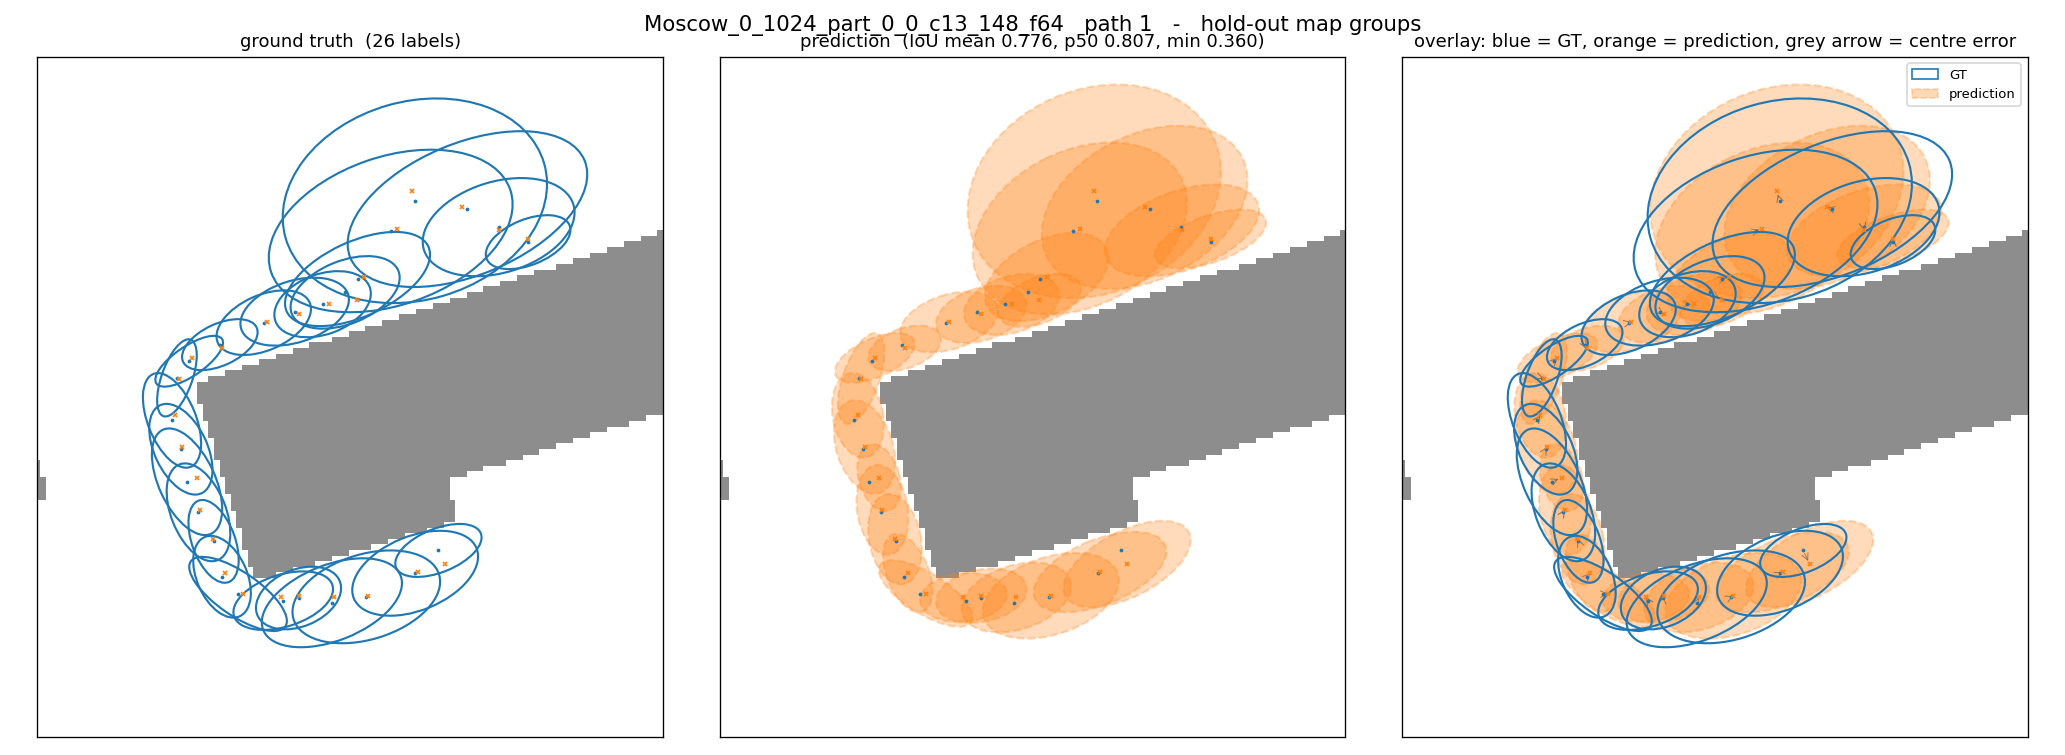
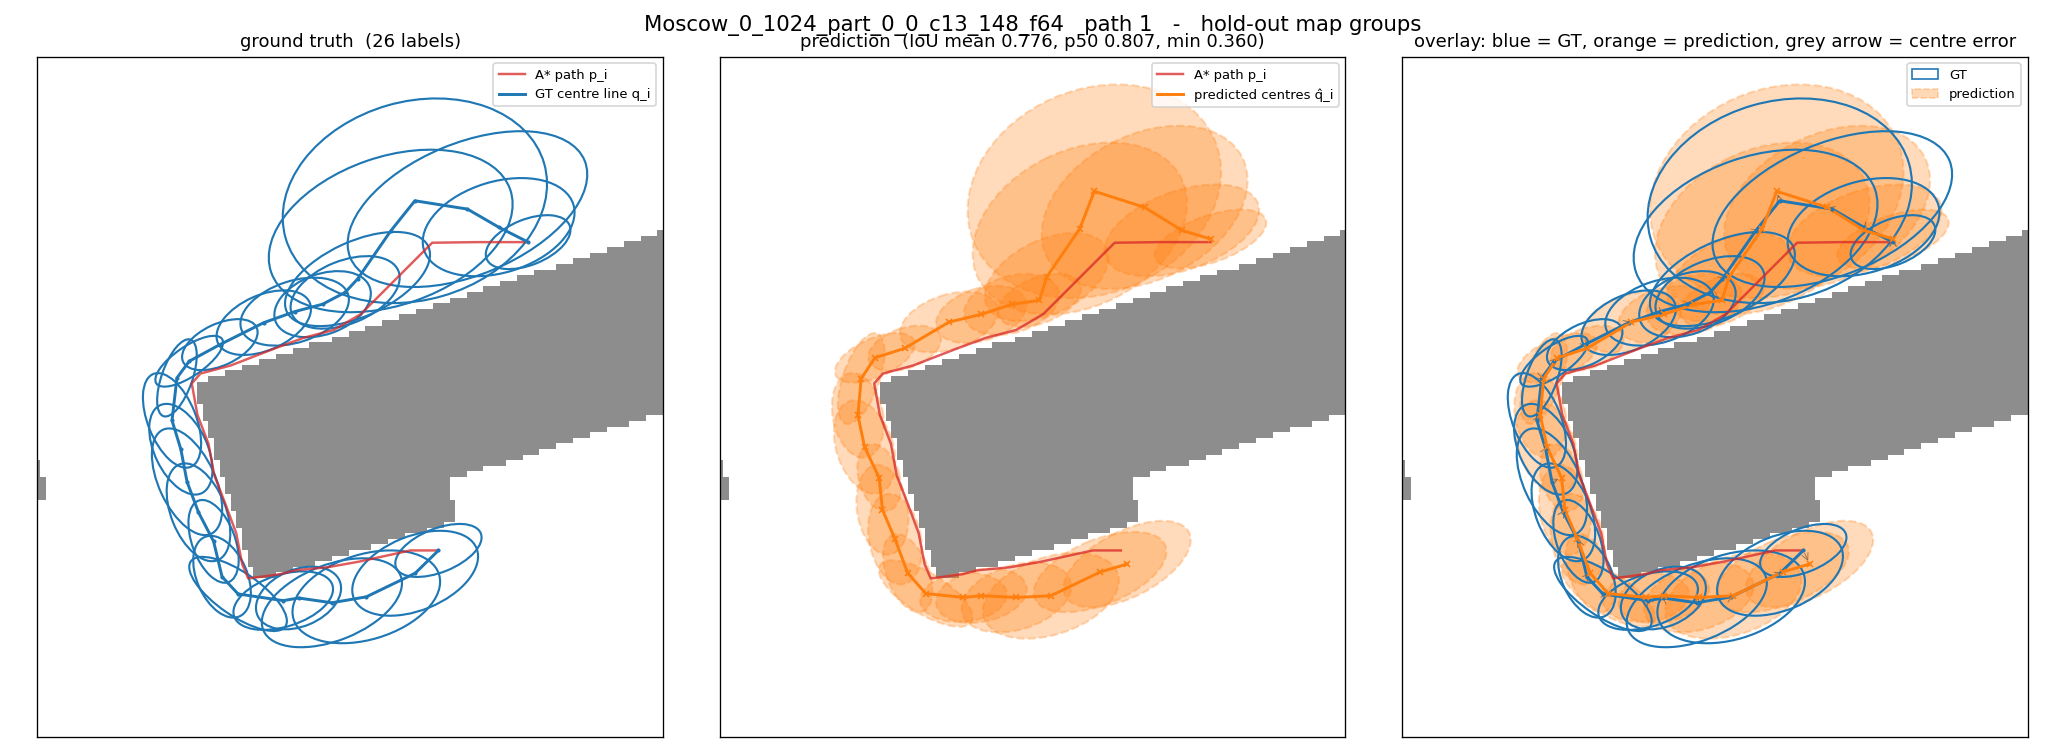
Connect the path in prediction figures: A* path, GT centre line and predicted centres drawn as polylines
The per-trajectory figures showed only loose ellipse outlines, so the sequence was
unreadable.  Each panel now draws the stations as a connected line: red = A* path
p_i, blue = GT centre line q_i (GT panel), orange = predicted centres q̂_i
(prediction panel), both lines in the overlay panel, with legends.  Failure modes
are now visible directly, e.g. Berlin_1_512 path 0 (48 labels, IoU 0.639): the
predicted centre line follows the A* path instead of moving into the open corridor,
and the predicted ellipses are systematically larger, so they spill over the walls.

diff --git a/scripts/v2_1_predict_vis.py b/scripts/v2_1_predict_vis.py
@@ -79,7 +79,7 @@ def draw_path(ax, npz, rows, local, off_p, ab_p, ang_p, off_g, ab_g, ang_g, mode
     n = npz["blocked"].shape[0]
     ax.imshow(npz["blocked"], cmap="gray_r", alpha=0.45, interpolation="nearest",
               extent=[0, n * rs, n * rs, 0])
-    pts_g, pts_p = [], []
+    pts_g, pts_p, pts_a = [], [], []
     for g in rows:
         i = local[g]
         sel = (npz["path_id"] == path_ids[g]) & (npz["point_id"] == point_ids[g])
@@ -91,6 +91,7 @@ def draw_path(ax, npz, rows, local, off_p, ab_p, ang_p, off_g, ab_g, ang_g, mode
         cp = p_xy + off_p[i]
         pts_g.append(cg)
         pts_p.append(cp)
+        pts_a.append(p_xy)
         if mode in ("gt", "both"):
             ax.add_patch(Ellipse((cg[0], cg[1]), 2 * ab_g[i, 0], 2 * ab_g[i, 1],
                                  angle=math.degrees(ang_g[i]), fill=False,
@@ -104,12 +105,23 @@ def draw_path(ax, npz, rows, local, off_p, ab_p, ang_p, off_g, ab_g, ang_g, mode
         if mode == "both":
             ax.annotate("", xy=(cp[0], cp[1]), xytext=(cg[0], cg[1]),
                         arrowprops=dict(arrowstyle="->", color="0.35", lw=0.6, alpha=0.8))
-    if pts_g:
-        ax.plot(*np.asarray(pts_g).T, ".", ms=2.6, color="tab:blue", zorder=5)
-    if pts_p:
-        ax.plot(*np.asarray(pts_p).T, "x", ms=2.6, color="tab:orange", zorder=5)
+    # connect the stations: the whole point is to see the trajectory, not loose rings
+    if pts_a:
+        a = np.asarray(pts_a)
+        ax.plot(a[:, 0], a[:, 1], "-", color="tab:red", lw=1.5, alpha=0.75, zorder=6,
+                label="A* path p_i")
+    if pts_g and mode in ("gt", "both"):
+        c = np.asarray(pts_g)
+        ax.plot(c[:, 0], c[:, 1], "-", color="tab:blue", lw=1.8, zorder=7,
+                label="GT centre line q_i")
+        ax.plot(c[:, 0], c[:, 1], ".", ms=3.0, color="tab:blue", zorder=8)
+    if pts_p and mode in ("pred", "both"):
+        c = np.asarray(pts_p)
+        ax.plot(c[:, 0], c[:, 1], "-", color="tab:orange", lw=1.8, zorder=7,
+                label="predicted centres q̂_i")
+        ax.plot(c[:, 0], c[:, 1], "x", ms=3.4, color="tab:orange", zorder=8)
     # keep the view on the labelled corridor
-    allc = np.vstack([np.asarray(pts_g), np.asarray(pts_p)]) if pts_g else np.zeros((1, 2))
+    allc = np.vstack([np.asarray(pts_g + pts_p + pts_a)]) if pts_g else np.zeros((1, 2))
     pad = 6.0
     ax.set_xlim(max(0, allc[:, 0].min() - pad), allc[:, 0].max() + pad)
     ax.set_ylim(allc[:, 1].max() + pad, max(0, allc[:, 1].min() - pad))
@@ -159,10 +171,12 @@ def main() -> int:
         draw_path(axes[0], npz, rows, local, off_p, ab_p, ang_p, off_g, ab_g, ang_g, "gt",
                   path_ids=pids, point_ids=ptids)
         axes[0].set_title(f"ground truth  ({len(rows)} labels)", fontsize=11)
+        axes[0].legend(loc="upper right", fontsize=8)
         draw_path(axes[1], npz, rows, local, off_p, ab_p, ang_p, off_g, ab_g, ang_g, "pred",
                   fill_pred=True, path_ids=pids, point_ids=ptids)
         axes[1].set_title(f"prediction  (IoU mean {iou_p.mean():.3f}, "
                           f"p50 {np.median(iou_p):.3f}, min {iou_p.min():.3f})", fontsize=11)
+        axes[1].legend(loc="upper right", fontsize=8)
         draw_path(axes[2], npz, rows, local, off_p, ab_p, ang_p, off_g, ab_g, ang_g, "both",
                   fill_pred=True, path_ids=pids, point_ids=ptids)
         axes[2].set_title("overlay: blue = GT, orange = prediction, grey arrow = centre error",
